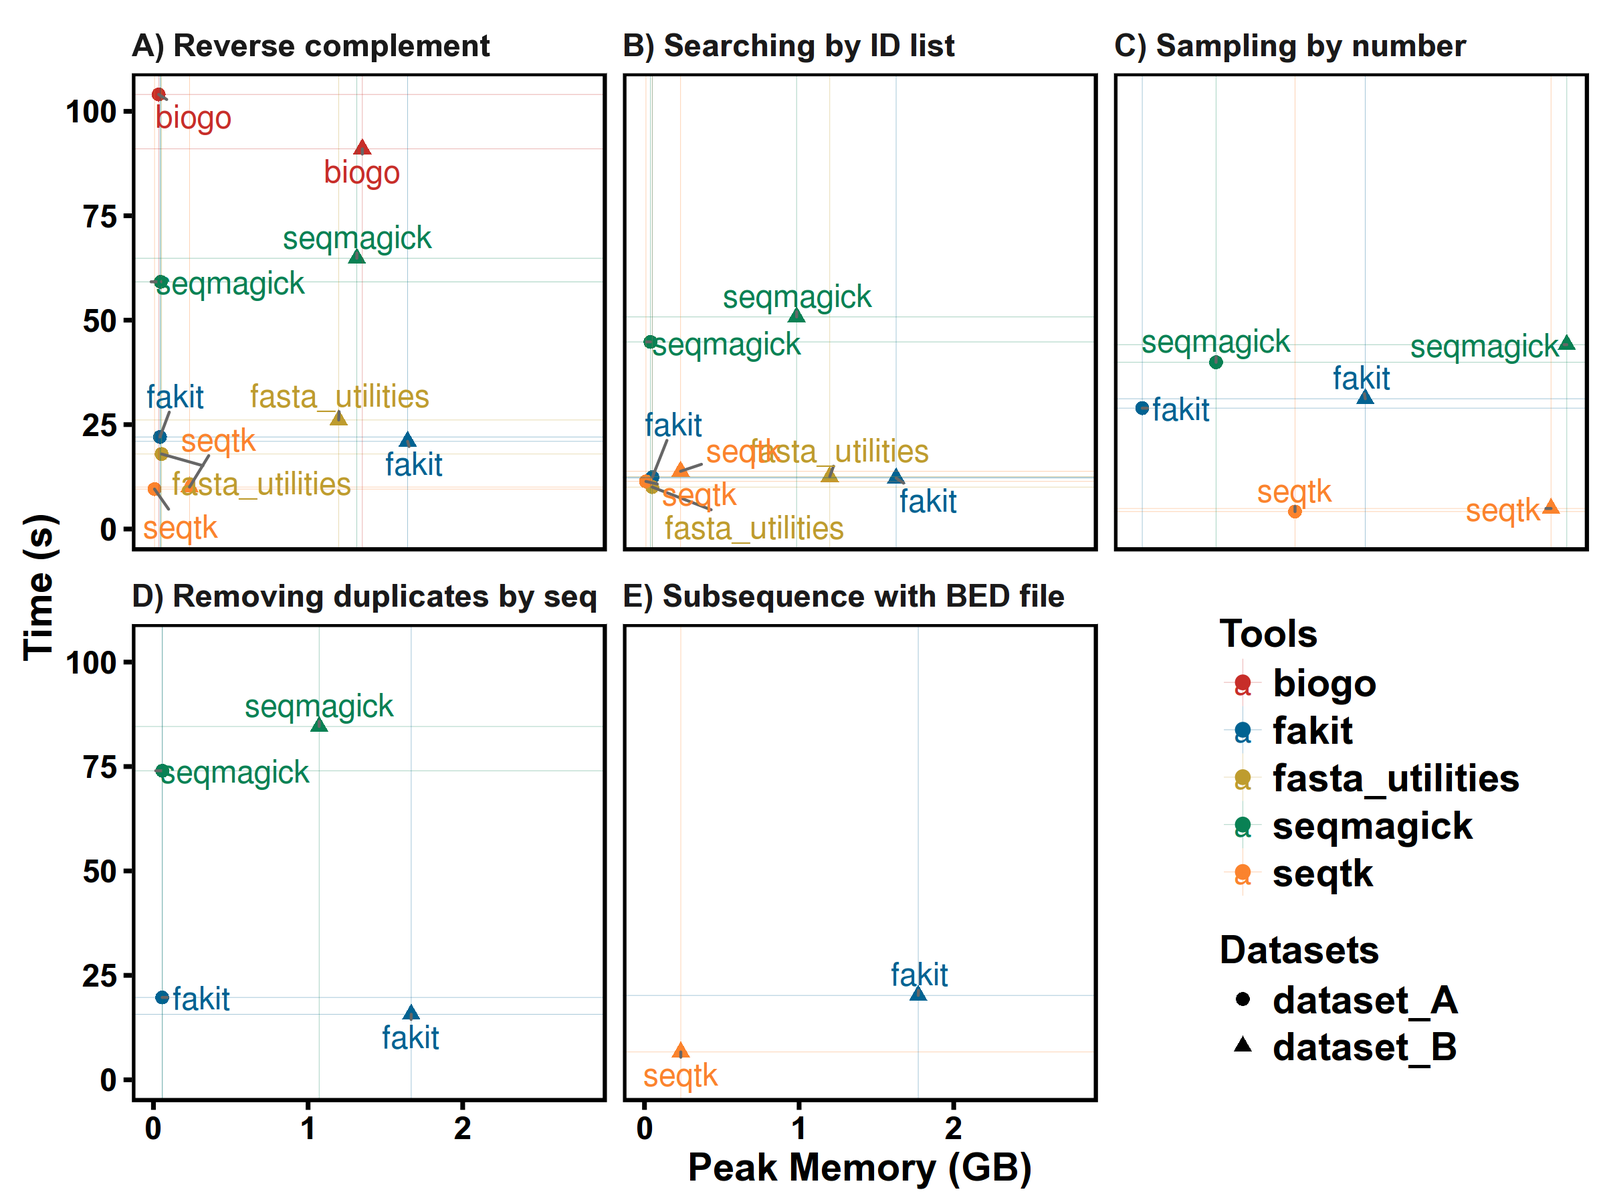
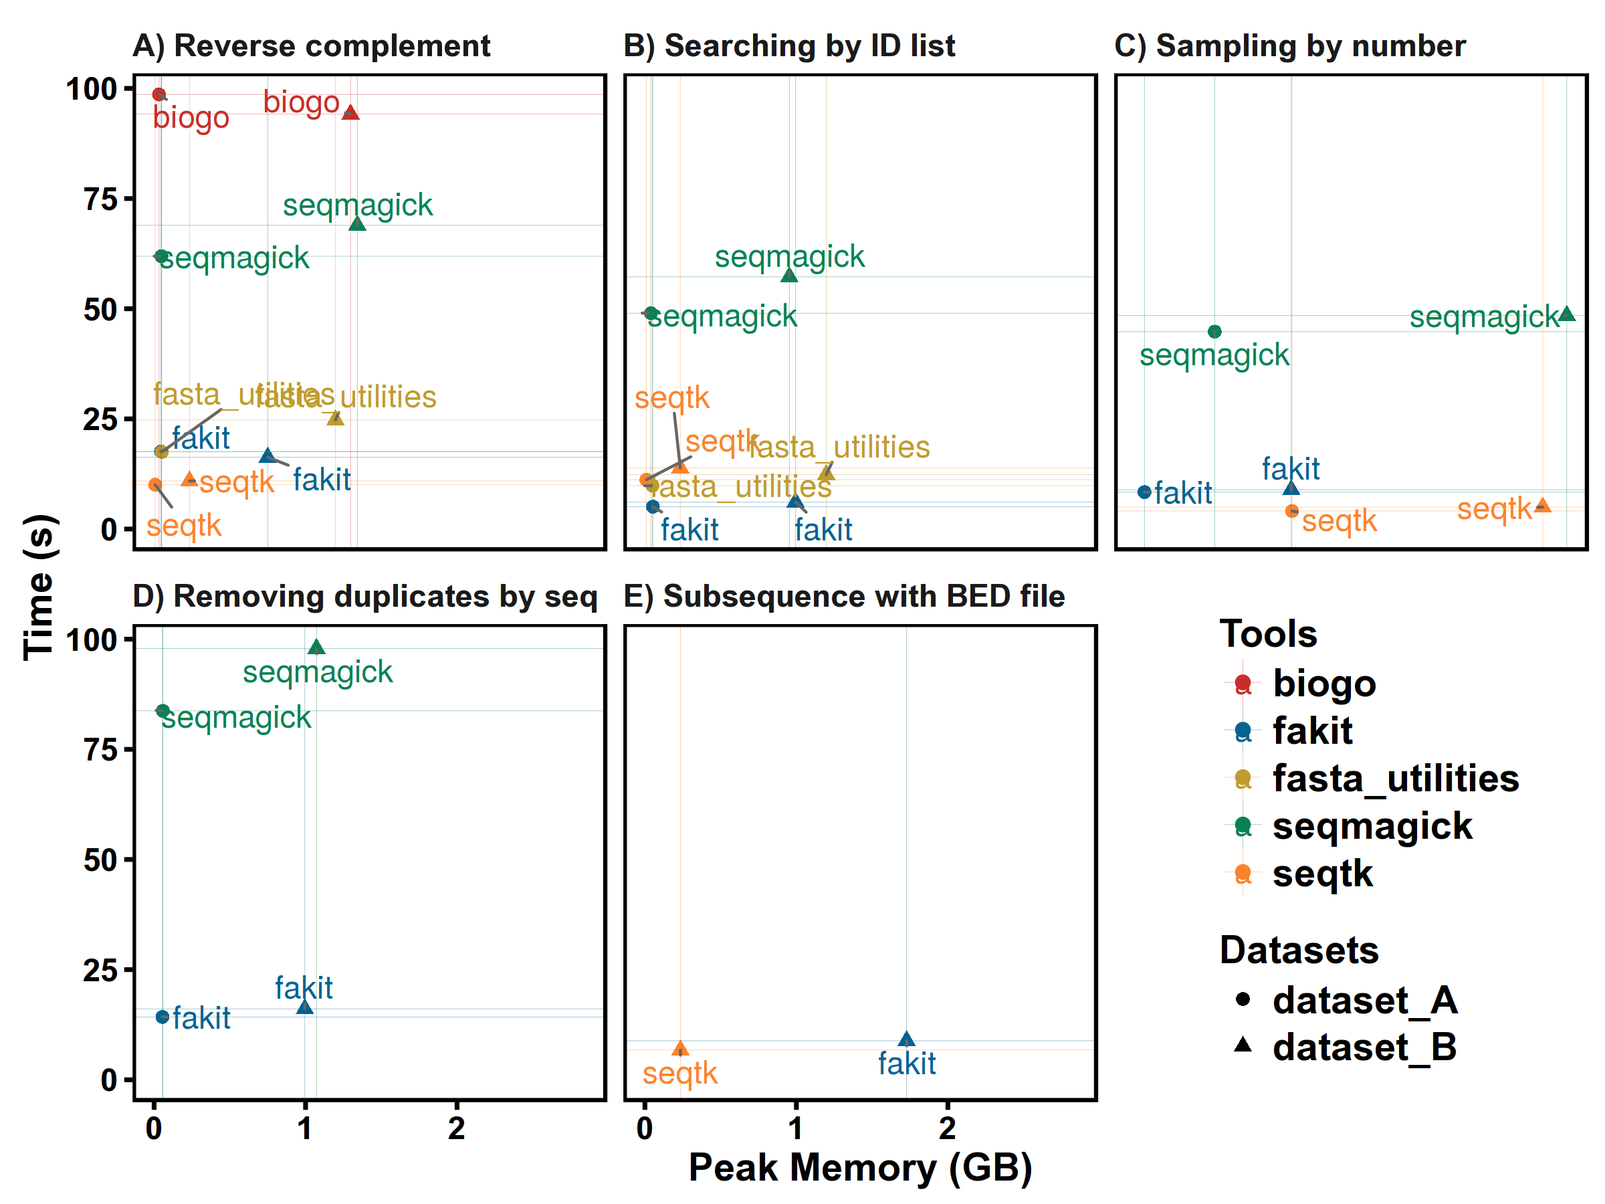
v0.2.7

diff --git a/index.html b/index.html
@@ -152,6 +152,8 @@
         
             <li><a href="#benchmark">Benchmark</a></li>
         
+            <li><a href="#citation">Citation</a></li>
+        
             <li><a href="#contact">Contact</a></li>
         
             <li><a href="#license">License</a></li>
@@ -162,6 +164,7 @@
                 <div class="col-md-9" role="main">
 
 <h1 id="fakit-a-cross-platform-and-efficient-toolkit-for-fastaq-file-manipulation">fakit - a cross-platform and efficient toolkit for FASTA/Q file manipulation</h1>
+<p><a href="https://github.com/shenwei356/fakit/releases"><img alt="Latest Stable Version" src="https://img.shields.io/github/release/shenwei356/fakit.svg?style=flat" /></a></p>
 <p>Documents  : <a href="http://shenwei356.github.io/fakit">http://shenwei356.github.io/fakit</a></p>
 <p>Source code: <a href="https://github.com/shenwei356/fakit">https://github.com/shenwei356/fakit</a></p>
 <h2 id="about-the-name">About the name</h2>
@@ -188,7 +191,7 @@ therefore, it could be easily used in command-line pipe.</p>
   (see <a href="http://shenwei356.github.io/fakit/download/">download</a>)</li>
 <li><strong>Fast</strong> (see <a href="./#benchmark">benchmark</a>),
   <strong>multiple-CPUs supported</strong>.</li>
-<li><strong>Practical functions supported by 19 subcommands</strong> (see subcommands and
+<li><strong>Practical functions supported by 20 subcommands</strong> (see subcommands and
   <a href="http://shenwei356.github.io/fakit/usage/">usage</a> )</li>
 <li><strong>Well documented</strong> (detailed <a href="http://shenwei356.github.io/fakit/usage/">usage</a>
   and <a href="http://shenwei356.github.io/fakit/benchmark/">benchmark</a> )</li>
@@ -454,7 +457,7 @@ echo export PATH=\$PATH:/PATH/OF/fakit &gt;&gt; ~/.bashrc
 <pre><code>go get -u github.com/shenwei356/fakit/fakit
 </code></pre>
 <h2 id="subcommands">Subcommands</h2>
-<p>19 in total.</p>
+<p>20 in total.</p>
 <p><strong>Sequence and subsequence</strong></p>
 <ul>
 <li><code>seq</code>        transform sequences (revserse, complement, extract ID...)</li>
@@ -498,31 +501,17 @@ echo export PATH=\$PATH:/PATH/OF/fakit &gt;&gt; ~/.bashrc
 </ul>
 <h2 id="technical-details-and-guides-for-use">Technical details and guides for use</h2>
 <h3 id="fastaq-format-parsing">FASTA/Q format parsing</h3>
-<p>fakit uses author's bioinformatics packages <a href="https://github.com/shenwei356/bio">bio</a>
-for FASTA/Q parsing, which <strong><em>asynchronously parse FASTA/Q records and buffer them
-in chunks</em></strong>. The parser returns one chunk of records for each call.</p>
-<p>Asynchronous parsing saves much time because these's no waiting interval for
-parsed records being handled.
-The strategy of records chunks reduces data exchange in parallelly handling
-of sequences, which could also improve performance.</p>
-<p>Since using of buffers and chunks, the memory occupation will be higher than
-cases of reading sequence one by one.
-The default value of chunk size (configurable by global flag <code>-c</code> or <code>--chunk-size</code>)
-is 1, which is suitable for most of cases.
-But for manipulating short sequences, e.g. FASTQ or FASTA of short sequences,
-you could set higher value, e.g. 100.
-For big genomes like human genome, smaller chunk size is prefered, e.g. 1.
-And the buffer size is configurable by global flag <code>-b</code> or <code>--buffer-size</code>
-(default value is 1). You may set with higher
-value for short sequences to imporve performance.</p>
+<p>fakit uses author's lightweight and high-performance bioinformatics packages
+ <a href="https://github.com/shenwei356/bio">bio</a> for FASTA/Q parsing，
+which has very close performance (<em>0.89X</em>) compared to the famous C lib
+<a href="https://github.com/attractivechaos/klib/blob/master/kseq.h"><code>kseq.h</code></a>.</p>
 <h3 id="sequence-formats-and-types">Sequence formats and types</h3>
 <p>fakit seamlessly support FASTA and FASTQ format.
 All subcommands except for <code>faidx</code> can handle both formats.
 And only when some commands (<code>subseq</code>, <code>split</code>, <code>sort</code> and <code>shuffle</code>)
 which utilise FASTA index to improve perfrmance for large files in two pass mode
 (by flag <code>--two-pass</code>), only FASTA format is supported.</p>
-<p>Sequence format is automatically detected by the first character of the file
-or STDIN.</p>
+<p>Sequence format is automatically detected.</p>
 <p>Sequence type (DNA/RNA/Protein) is automatically detected by leading subsequences
 of the first sequences in file or STDIN. The length of the leading subsequences
 is configurable by global flag <code>--alphabet-guess-seq-length</code> with default value
@@ -566,19 +555,18 @@ rapid access of sequences and reducing memory occupation.</p>
 <p>ATTENTION: the <code>.fakit.fai</code> file created by fakit is a little different from .fai file
 created by samtools. fakit uses full sequence head instead of just ID as key.</p>
 <h3 id="parallelization-of-cpu-intensive-jobs">Parallelization of CPU intensive jobs</h3>
-<p>Most of the manipulations of FASTA/Q files are I/O intensive, to improve the
-performance, asynchronous parsing strategy is used.</p>
-<p>The validation of sequences bases and complement process of sequences
+<p>The validation of sequences bases and computing complement sequence sequences
 are parallelized for large sequences.</p>
-<p>For CPU intensive jobs like <code>grep</code> with regular expressions and <code>locate</code> with
-sequence motifs. The processes are parallelized
+<p>Parsing of line-based files, including BED/GFF file and ID list file are
+also parallelized.</p>
+<p>The processes are parallelized
 with "Map-Reduce" model by multiple goroutines in golang which are similar to but much
 lighter weight than threads. The concurrency number is configurable with global
 flag <code>-j</code> or <code>--threads</code> (default value: 1 for single-CPU PC, 2 for others).</p>
 <h3 id="memory-occupation">Memory occupation</h3>
 <p>Most of the subcommands do not read whole FASTA/Q records in to memory,
 including <code>stat</code>, <code>fq2fa</code>, <code>fx2tab</code>, <code>tab2fx</code>, <code>grep</code>, <code>locate</code>, <code>replace</code>,
- <code>seq</code>, <code>sliding</code>, <code>subseq</code>. They just temporarily buffer chunks of records.</p>
+ <code>seq</code>, <code>sliding</code>, <code>subseq</code>.</p>
 <p>However when handling big sequences, e.g. Human genome, the memory is high
 (2-3 GB) even the buffer size is 1.
 This is due to the limitation of garbage collection mechanism in
@@ -608,8 +596,11 @@ file           seq_format   seq_type   num_seqs   min_len        avg_len       m
 dataset_A.fa   FASTA        DNA          67,748        56       41,442.5     5,976,145                  
 dataset_B.fa   FASTA        DNA             194       970   15,978,096.5   248,956,422
 </code></pre>
-<p>fakit version: v0.2.5</p>
+<p>fakit version: v0.2.7</p>
 <p><img alt="benchmark-5tests.csv.png" src="./benchmark/benchmark.5tests.csv.png" /></p>
+<h2 id="citation">Citation</h2>
+<p><strong>W Shen</strong>, S Le, Y Li*, F Hu*. fakit: a cross-platform and efficient toolkit for FASTA/Q file manipulation. <em>PLOS ONE</em>.
+ revised.</p>
 <h2 id="contact">Contact</h2>
 <p>Email me for any problem when using fakit. shenwei356(at)gmail.com</p>
 <p><a href="https://github.com/shenwei356/fakit/issues">Create an issue</a> to report bugs,
@@ -662,5 +653,5 @@ propose new functions or ask for help.</p>
 
 <!--
 MkDocs version : 0.15.3
-Build Date UTC : 2016-07-06 01:04:26.463122
+Build Date UTC : 2016-07-18 04:08:13.647159
 -->

diff --git a/usage/index.html b/usage/index.html
@@ -179,31 +179,17 @@
 <h1 id="usage-and-examples">Usage and Examples</h1>
 <h2 id="technical-details-and-guides-for-use">Technical details and guides for use</h2>
 <h3 id="fastaq-format-parsing">FASTA/Q format parsing</h3>
-<p>fakit uses author's bioinformatics packages <a href="https://github.com/shenwei356/bio">bio</a>
-for FASTA/Q parsing, which <strong><em>asynchronously parse FASTA/Q records and buffer them
-in chunks</em></strong>. The parser returns one chunk of records for each call.</p>
-<p>Asynchronous parsing saves much time because these's no waiting interval for
-parsed records being handled.
-The strategy of records chunks reduces data exchange in parallelly handling
-of sequences, which could also improve performance.</p>
-<p>Since using of buffers and chunks, the memory occupation will be higher than
-cases of reading sequence one by one.
-The default value of chunk size (configurable by global flag <code>-c</code> or <code>--chunk-size</code>)
-is 1, which is suitable for most of cases.
-But for manipulating short sequences, e.g. FASTQ or FASTA of short sequences,
-you could set higher value, e.g. 100.
-For big genomes like human genome, smaller chunk size is prefered, e.g. 1.
-And the buffer size is configurable by global flag <code>-b</code> or <code>--buffer-size</code>
-(default value is 1). You may set with higher
-value for short sequences to imporve performance.</p>
+<p>fakit uses author's lightweight and high-performance bioinformatics packages
+ <a href="https://github.com/shenwei356/bio">bio</a> for FASTA/Q parsing，
+which has very close performance (<em>0.89X</em>) compared to the famous C lib
+<a href="https://github.com/attractivechaos/klib/blob/master/kseq.h"><code>kseq.h</code></a>.</p>
 <h3 id="sequence-formats-and-types">Sequence formats and types</h3>
 <p>fakit seamlessly support FASTA and FASTQ format.
 All subcommands except for <code>faidx</code> can handle both formats.
 And only when some commands (<code>subseq</code>, <code>split</code>, <code>sort</code> and <code>shuffle</code>)
 which utilise FASTA index to improve perfrmance for large files in two pass mode
 (by flag <code>--two-pass</code>), only FASTA format is supported.</p>
-<p>Sequence format is automatically detected by the first character of the file
-or STDIN.</p>
+<p>Sequence format is automatically detected.</p>
 <p>Sequence type (DNA/RNA/Protein) is automatically detected by leading subsequences
 of the first sequences in file or STDIN. The length of the leading subsequences
 is configurable by global flag <code>--alphabet-guess-seq-length</code> with default value
@@ -243,27 +229,26 @@ the <code>gi</code> number, then use <code>--id-regexp "^gi\|([^\|]+)\|"</code>.
 <p>For some commands, including <code>subseq</code>, <code>split</code>, <code>sort</code> and <code>shuffle</code>,
 when input files are (plain or gzipped) FASTA files,
 FASTA index would be optional used for
-rapid acccess of sequences and reducing memory occupation.</p>
+rapid access of sequences and reducing memory occupation.</p>
 <p>ATTENTION: the <code>.fakit.fai</code> file created by fakit is a little different from .fai file
 created by samtools. fakit uses full sequence head instead of just ID as key.</p>
 <h3 id="parallelization-of-cpu-intensive-jobs">Parallelization of CPU intensive jobs</h3>
-<p>Most of the manipulations of FASTA/Q files are I/O intensive, to improve the
-performance, asynchronous parsing strategy is used.</p>
-<p>The validation of sequences bases and complement process of sequences
+<p>The validation of sequences bases and computing complement sequence sequences
 are parallelized for large sequences.</p>
-<p>For CPU intensive jobs like <code>grep</code> with regular expressions and <code>locate</code> with
-sequence motifs. The processes are parallelized
+<p>Parsing of line-based files, including BED/GFF file and ID list file are
+also parallelized.</p>
+<p>The processes are parallelized
 with "Map-Reduce" model by multiple goroutines in golang which are similar to but much
 lighter weight than threads. The concurrency number is configurable with global
 flag <code>-j</code> or <code>--threads</code> (default value: 1 for single-CPU PC, 2 for others).</p>
 <h3 id="memory-occupation">Memory occupation</h3>
 <p>Most of the subcommands do not read whole FASTA/Q records in to memory,
 including <code>stat</code>, <code>fq2fa</code>, <code>fx2tab</code>, <code>tab2fx</code>, <code>grep</code>, <code>locate</code>, <code>replace</code>,
- <code>seq</code>, <code>sliding</code>, <code>subseq</code>. They just temporarily buffer chunks of records.</p>
+ <code>seq</code>, <code>sliding</code>, <code>subseq</code>.</p>
 <p>However when handling big sequences, e.g. Human genome, the memory is high
- (2-3 GB) even the buffer size is 1.
- This is due to the limitation of garbage collection mechanism in
-  Go programming language, it may be solved in the future.</p>
+(2-3 GB) even the buffer size is 1.
+This is due to the limitation of garbage collection mechanism in
+ Go programming language, it may be solved in the future.</p>
 <p>Note that when using <code>subseq --gtf | --bed</code>, if the GTF/BED files are too
 big, the memory usage will increase.
 You could use <code>--chr</code> to specify chromesomes and <code>--feature</code> to limit features.</p>
@@ -280,9 +265,9 @@ given by flag <code>-s</code> (<code>--rand-seed</code>). This makes sure that s
 reproduced in different environments with same random seed.</p>
 <h2 id="fakit">fakit</h2>
 <p>Usage</p>
-<pre><code>fakit -- a cross-platform and efficient suit for FASTA/Q file manipulation
+<pre><code>fakit -- a cross-platform and efficient toolkit for FASTA/Q file manipulation
 
-Version: 0.2.6
+Version: 0.2.7
 
 Author: Wei Shen &lt;shenwei356@gmail.com&gt;
 
@@ -301,7 +286,7 @@ Available Commands:
   head        print first N FASTA/Q records
   locate      locate subsequences/motifs
   rename      rename duplicated IDs
-  replace     replace name/sequence/by regular expression
+  replace     replace name/sequence by regular expression
   rmdup       remove duplicated sequences by id/name/sequence
   sample      sample sequences by number or proportion
   seq         transform sequences (revserse, complement, extract ID...)
@@ -316,8 +301,6 @@ Available Commands:
 
 Flags:
       --alphabet-guess-seq-length int   length of sequence prefix of the first FASTA record based on which fakit guesses the sequence type (0 for whole seq) (default 10000)
-  -b, --buffer-size int                 buffer size of chunks (0 for no buffer) (default 1)
-  -c, --chunk-size int                  chunk size (attention: unit is FASTA records not lines) (default 1)
       --id-ncbi                         FASTA head is NCBI-style, e.g. &gt;gi|110645304|ref|NC_002516.2| Pseud...
       --id-regexp string                regular expression for parsing ID (default &quot;^([^\\s]+)\\s?&quot;)
   -w, --line-width int                  line width when outputing FASTA format (0 for no wrap) (default 60)
@@ -325,8 +308,6 @@ Flags:
       --quiet                           be quiet and do not show extra information
   -t, --seq-type string                 sequence type (dna|rna|protein|unlimit|auto) (for auto, it automatically detect by the first sequence) (default &quot;auto&quot;)
   -j, --threads int                     number of CPUs. (default value: 1 for single-CPU PC, 2 for others) (default 2)
-
-Use &quot;fakit [command] --help&quot; for more information about a command.
 
 </code></pre>
 

diff --git a/download/index.html b/download/index.html
@@ -135,11 +135,11 @@
     
         <li class="main active"><a href="#download">Download</a></li>
         
-            <li><a href="#current-version">Current Version</a></li>
+            <li><a href="#latest-version">Latest Version</a></li>
         
             <li><a href="#installation">Installation</a></li>
         
-            <li><a href="#previous-versions">Previous Versions</a></li>
+            <li><a href="#release-history">Release History</a></li>
         
     
     </ul>
@@ -150,10 +150,64 @@
 <p><code>fakit</code> is implemented in <a href="https://golang.org/">Golang</a> programming language,
  executable binary files <strong>for most popular operating system</strong> are freely available
   in <a href="https://github.com/shenwei356/fakit/releases">release</a> page.</p>
-<h2 id="current-version">Current Version</h2>
+<h2 id="latest-version">Latest Version</h2>
+<p><a href="https://github.com/shenwei356/fakit/releases/tag/v0.2.7">fakit v0.2.7</a></p>
 <ul>
-<li><a href="https://github.com/shenwei356/fakit/releases/tag/v0.2.6">fakit v0.2.6</a><ul>
-<li>fix bug of <code>fakit subseq</code>: Inplace subseq method leaded to wrong result</li>
+<li><strong>Linux</strong><ul>
+<li><a href="https://github.com/shenwei356/fakit/releases/download/v0.2.7/fakit_linux_386.tar.gz">fakit_linux_386.tar.gz</a></li>
+<li><a href="https://github.com/shenwei356/fakit/releases/download/v0.2.7/fakit_linux_amd64.tar.gz">fakit_linux_amd64.tar.gz</a></li>
+<li><a href="https://github.com/shenwei356/fakit/releases/download/v0.2.7/fakit_linux_arm.tar.gz">fakit_linux_arm.tar.gz</a></li>
+</ul>
+</li>
+<li><strong>Mac OS X</strong><ul>
+<li><a href="https://github.com/shenwei356/fakit/releases/download/v0.2.7/fakit_darwin_386.tar.gz">fakit_darwin_386.tar.gz</a></li>
+<li><a href="https://github.com/shenwei356/fakit/releases/download/v0.2.7/fakit_darwin_amd64.tar.gz">fakit_darwin_amd64.tar.gz</a></li>
+</ul>
+</li>
+<li><strong>Windows</strong><ul>
+<li><a href="https://github.com/shenwei356/fakit/releases/download/v0.2.7/fakit_windows_386.exe.tar.gz">fakit_windows_386.exe.tar.gz</a></li>
+<li><a href="https://github.com/shenwei356/fakit/releases/download/v0.2.7/fakit_windows_amd64.exe.tar.gz">fakit_windows_amd64.exe.tar.gz</a></li>
+</ul>
+</li>
+<li><strong>FreeBSD</strong><ul>
+<li><a href="https://github.com/shenwei356/fakit/releases/download/v0.2.7/fakit_freebsd_386.tar.gz">fakit_freebsd_386.tar.gz</a></li>
+<li><a href="https://github.com/shenwei356/fakit/releases/download/v0.2.7/fakit_freebsd_amd64.tar.gz">fakit_freebsd_amd64.tar.gz</a></li>
+<li><a href="https://github.com/shenwei356/fakit/releases/download/v0.2.7/fakit_freebsd_arm.tar.gz">fakit_freebsd_arm.tar.gz</a></li>
+</ul>
+</li>
+<li><strong>OpenBSD</strong><ul>
+<li><a href="https://github.com/shenwei356/fakit/releases/download/v0.2.7/fakit_openbsd_386.tar.gz">fakit_openbsd_386.tar.gz</a></li>
+<li><a href="https://github.com/shenwei356/fakit/releases/download/v0.2.7/fakit_openbsd_amd64.tar.gz">fakit_openbsd_amd64.tar.gz</a></li>
+</ul>
+</li>
+</ul>
+<h4 id="mirror-sites-for-china">Mirror sites for China:</h4>
+<ul>
+<li><strong>Linux</strong><ul>
+<li><a href="http://bioinf.shenwei.me/data/fakit_linux_386.tar.gz">fakit_linux_386.tar.gz</a></li>
+<li><a href="http://bioinf.shenwei.me/data/fakit_linux_amd64.tar.gz">fakit_linux_amd64.tar.gz</a></li>
+<li><a href="http://bioinf.shenwei.me/data/fakit_linux_arm.tar.gz">fakit_linux_arm.tar.gz</a></li>
+</ul>
+</li>
+<li><strong>Mac OS X</strong><ul>
+<li><a href="http://bioinf.shenwei.me/data/fakit_darwin_386.tar.gz">fakit_darwin_386.tar.gz</a></li>
+<li><a href="http://bioinf.shenwei.me/data/fakit_darwin_amd64.tar.gz">fakit_darwin_amd64.tar.gz</a></li>
+</ul>
+</li>
+<li><strong>Windows</strong><ul>
+<li><a href="http://bioinf.shenwei.me/data/fakit_windows_386.exe.tar.gz">fakit_windows_386.exe.tar.gz</a></li>
+<li><a href="http://bioinf.shenwei.me/data/fakit_windows_amd64.exe.tar.gz">fakit_windows_amd64.exe.tar.gz</a></li>
+</ul>
+</li>
+<li><strong>FreeBSD</strong><ul>
+<li><a href="http://bioinf.shenwei.me/data/fakit_freebsd_386.tar.gz">fakit_freebsd_386.tar.gz</a></li>
+<li><a href="http://bioinf.shenwei.me/data/fakit_freebsd_amd64.tar.gz">fakit_freebsd_amd64.tar.gz</a></li>
+<li><a href="http://bioinf.shenwei.me/data/fakit_freebsd_arm.tar.gz">fakit_freebsd_arm.tar.gz</a></li>
+</ul>
+</li>
+<li><strong>OpenBSD</strong><ul>
+<li><a href="http://bioinf.shenwei.me/data/fakit_openbsd_386.tar.gz">fakit_openbsd_386.tar.gz</a></li>
+<li><a href="http://bioinf.shenwei.me/data/fakit_openbsd_amd64.tar.gz">fakit_openbsd_amd64.tar.gz</a></li>
 </ul>
 </li>
 </ul>
@@ -177,8 +231,24 @@ echo export PATH=\$PATH:/PATH/OF/fakit &gt;&gt; ~/.bashrc
 <p>For Go developer, just one command:</p>
 <pre><code>go get -u github.com/shenwei356/fakit/fakit
 </code></pre>
-<h2 id="previous-versions">Previous Versions</h2>
+<h2 id="release-history">Release History</h2>
 <ul>
+<li><a href="https://github.com/shenwei356/fakit/releases/tag/v0.2.7">fakit v0.2.7</a><ul>
+<li><strong><em>reduce memory usage</em></strong> by optimize the outputing of sequences.
+  detail: using <a href="https://godoc.org/github.com/shenwei356/util/byteutil#BufferedByteSliceWrapper"><code>BufferedByteSliceWrapper</code></a> to resuse <code>bytes.Buffer</code>.</li>
+<li><strong><em>reduce memory usage and improve speed</em></strong> by using custom buffered
+  reading mechanism, instead of using standard library <code>bufio</code>,
+  which is slow for large genome sequence.</li>
+<li>discard strategy of "buffer" and "chunk" of FASTA/Q records,
+  just parse records one by one.</li>
+<li>delete global flags <code>-c (--chunk-size)</code> and <code>-b (--buffer-size)</code>.</li>
+<li>add function testing scripts</li>
+</ul>
+</li>
+<li><a href="https://github.com/shenwei356/fakit/releases/tag/v0.2.7">fakit v0.2.7</a><ul>
+<li>fix bug of <code>fakit subseq</code>: Inplace subseq method leaded to wrong result</li>
+</ul>
+</li>
 <li><a href="https://github.com/shenwei356/fakit/releases/tag/v0.2.5.1">fakit v0.2.5.1</a><ul>
 <li>fix a bug of <code>fakit subseq</code>: chromesome name was not be converting to lower case when using <code>--gtf</code> or <code>--bed</code></li>
 </ul>

diff --git a/benchmark/index.html b/benchmark/index.html
@@ -156,7 +156,7 @@
 <h2 id="softwares">Softwares</h2>
 <ol>
 <li><a href="https://github.com/shenwei356/fakit">fakit</a>. (Go).
-   Version <a href="https://github.com/shenwei356/fakit/releases/tag/v0.2.5">v0.2.5</a>.</li>
+   Version <a href="https://github.com/shenwei356/fakit/releases/tag/v0.2.7">v0.2.7</a>.</li>
 <li><a href="https://github.com/jimhester/fasta_utilities">fasta_utilities</a>. (Perl).
    Version <a href="https://github.com/jimhester/fasta_utilities/tree/3dcc0bc6bf1e97839476221c26984b1789482579">3dcc0bc</a>.
    Lots of dependencies to install.</li>
@@ -480,7 +480,7 @@ the peak memory may depends on size of sampled sequences.</p>
 <h3 id="test-5-subsequence-with-bed-file">Test 5. Subsequence with BED file</h3>
 <p><a href="https://github.com/shenwei356/fakit/blob/master/benchmark/run_benchmark_05_subseq_with_bed.sh">Commands</a></p>
 <h2 id="results">Results</h2>
-<p>fakit version: v0.2.5</p>
+<p>fakit version: v0.2.7</p>
 <p><img alt="benchmark-5tests.csv.png" src="../benchmark/benchmark.5tests.csv.png" /></p>
 <h3 id="test-of-multiple-threads">Test of multiple threads:</h3>
 <p>From the results, 2 threads/CPU is enough, so the default threads of fakit is 2.</p>
